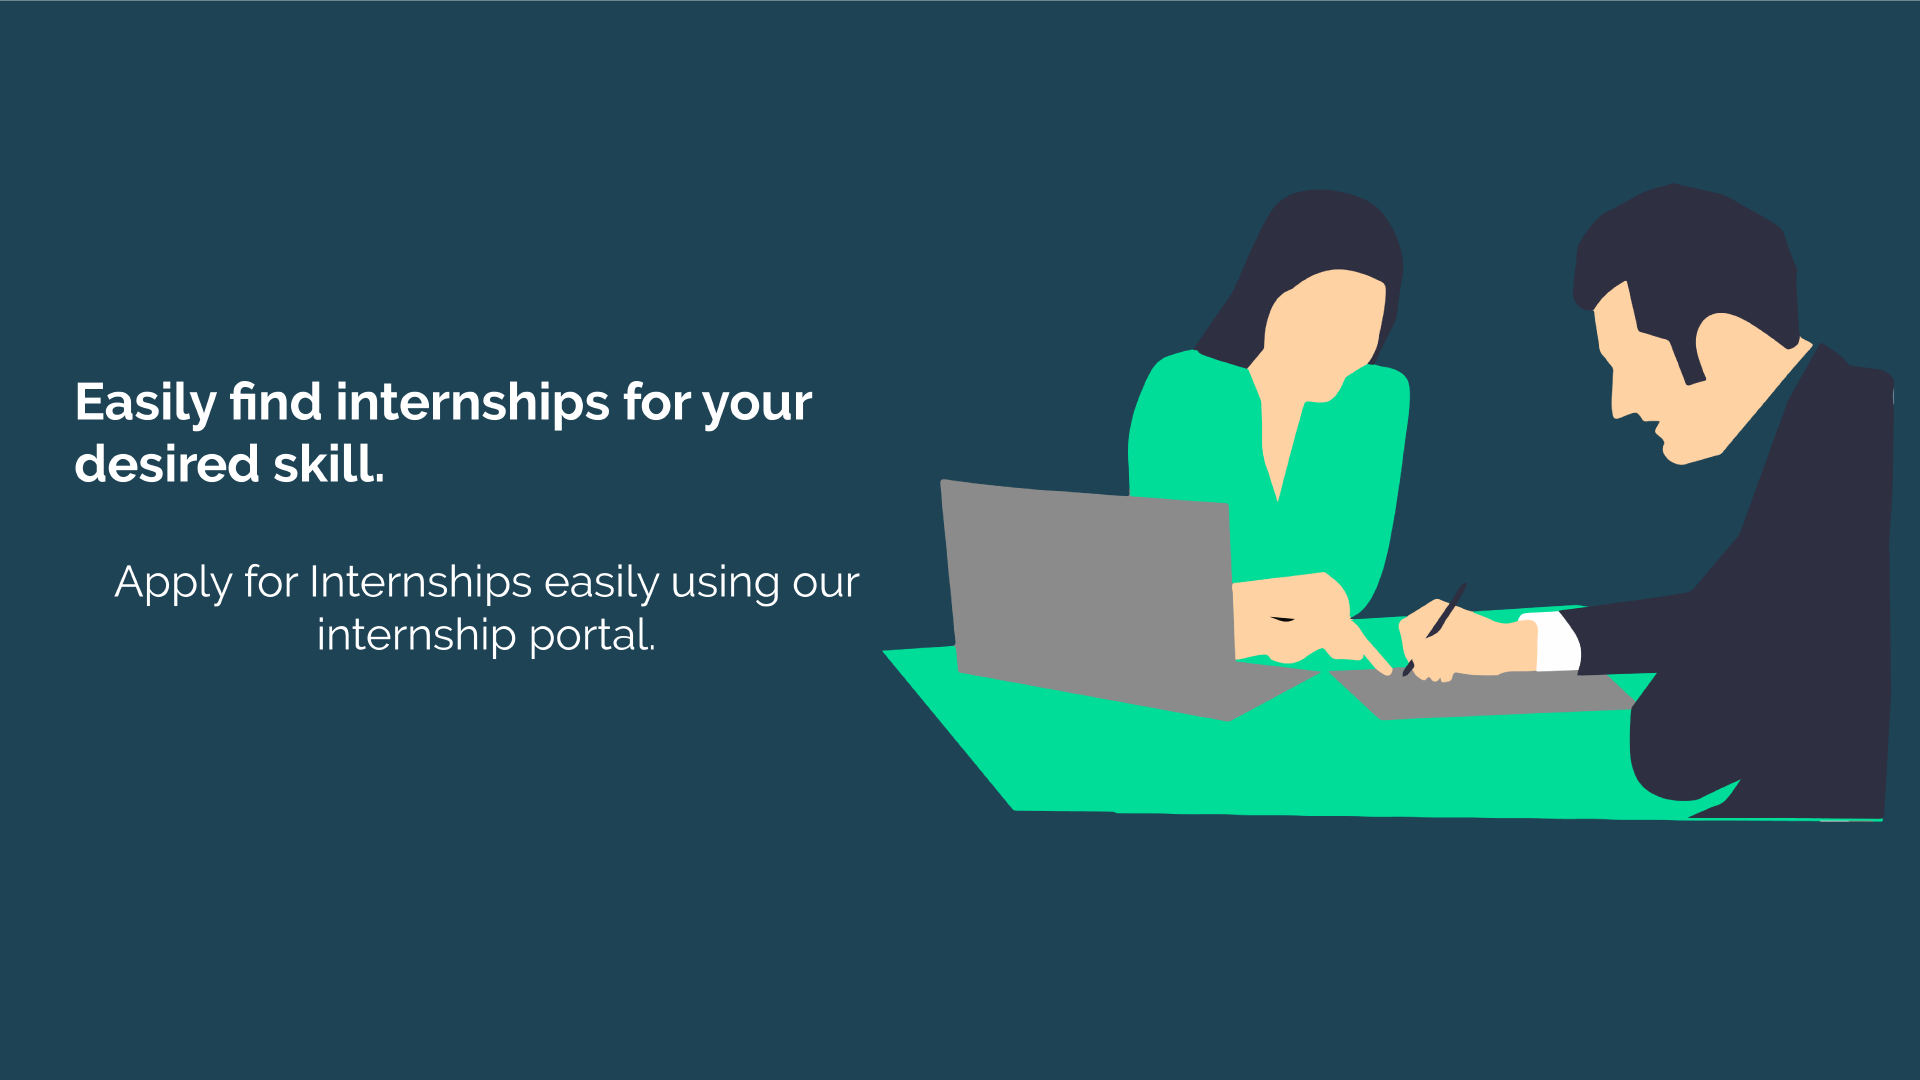
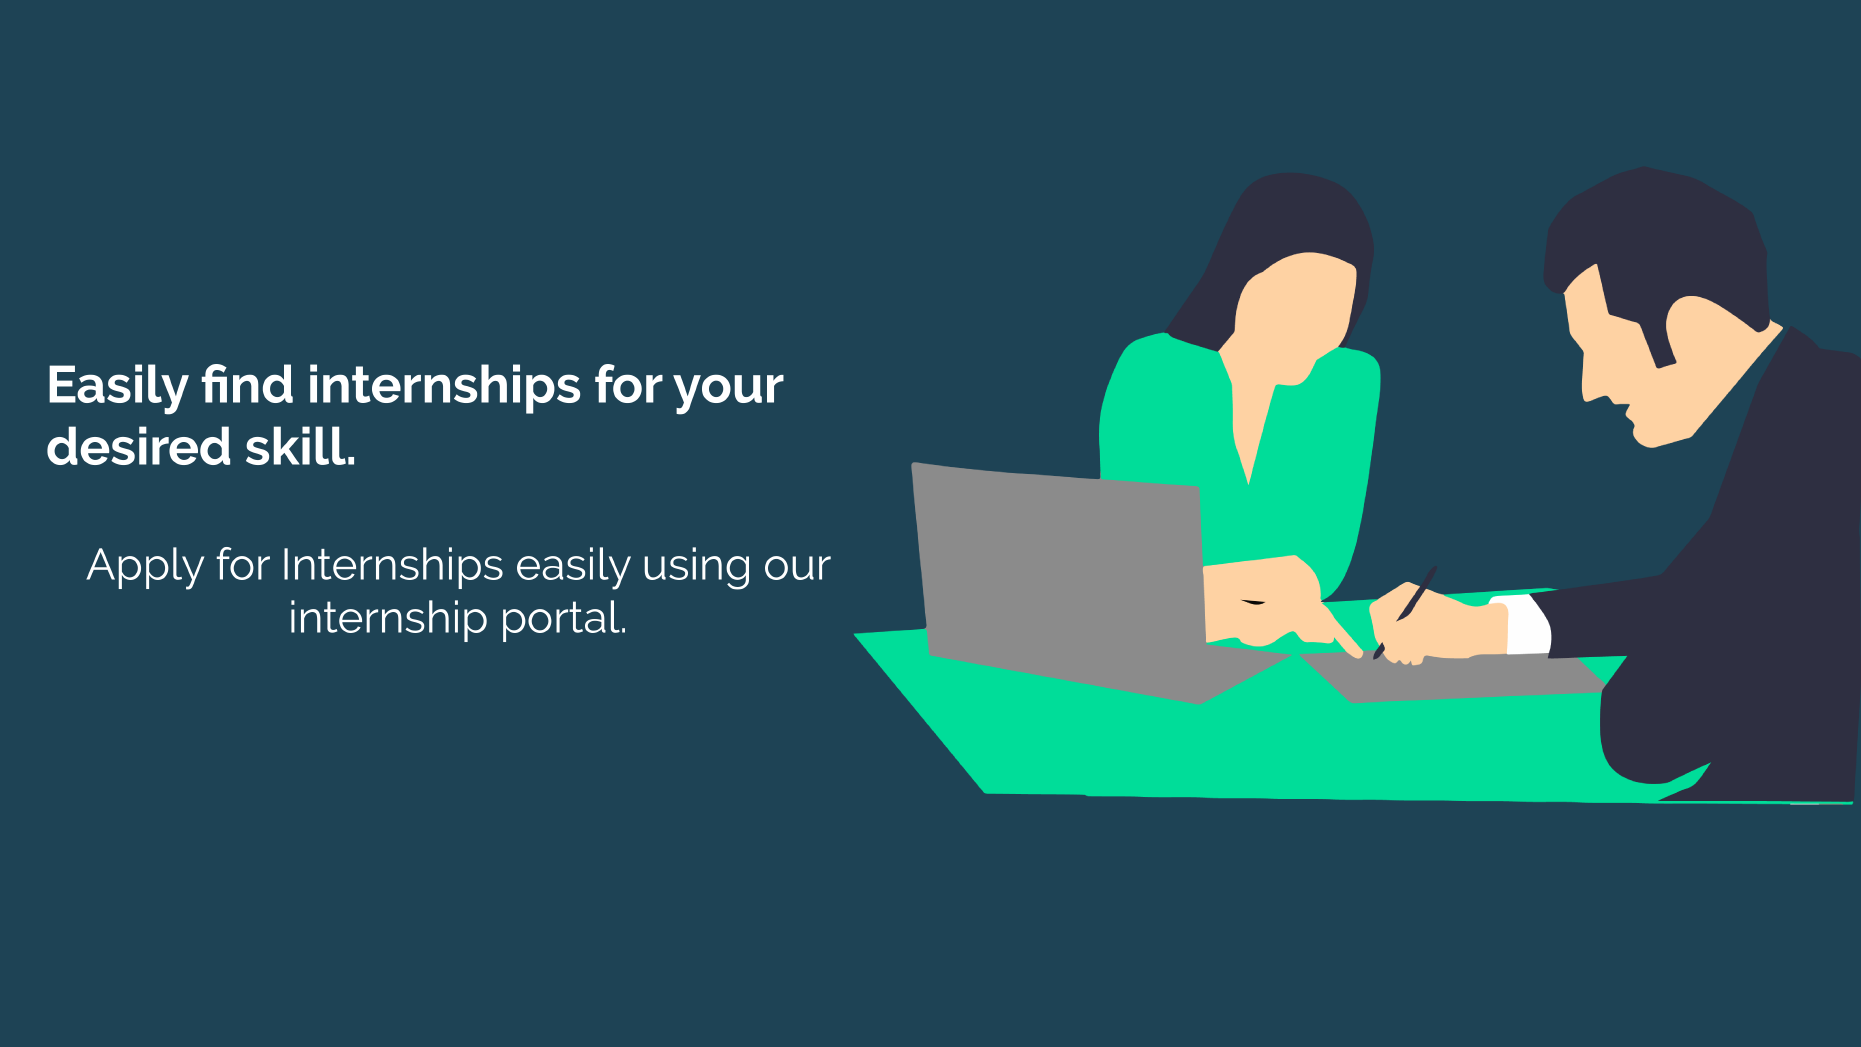
IMAGES FIXED

diff --git a/lib/screens/employee/home_screen/home_screen.dart b/lib/screens/employee/home_screen/home_screen.dart
@@ -13,7 +13,6 @@ import 'package:qamai_official/screens/employee/home_screen/profile_screen_scaff
 import 'package:qamai_official/screens/employee/home_screen/profile_screen_scaffolds/radar_scaffold.dart';
 import 'package:qamai_official/database/firebase_data_reciever.dart';
 import 'package:provider/provider.dart';
-import 'package:qamai_official/screens/employer/home_screen/employer_form.dart';
 import 'package:qamai_official/theme.dart';
 
 

diff --git a/lib/containers/widgets/image_slider.dart b/lib/containers/widgets/image_slider.dart
@@ -11,7 +11,7 @@ class CarouselPage extends StatelessWidget {
         child: Carousel(
           overlayShadowColors: QamaiThemeColor,
           images: [
-            Image.asset('images/image_1.jpg'),
+            Image.asset('images/image_1.png'),
             Image.asset('images/image_2.png'),
             Image.asset('images/image_3.png'),
             Image.asset('images/image_4.png'),

diff --git a/lib/containers/widgets/settings_dialog.dart b/lib/containers/widgets/settings_dialog.dart
@@ -79,7 +79,6 @@ class OnlineSwitch extends StatelessWidget {
                   height: 20,
                 ),
                 LiteRollingSwitch(
-                  //initial value
                   value: temp,
                   textOn: 'ONLINE',
                   textOff: 'OFFLINE',
